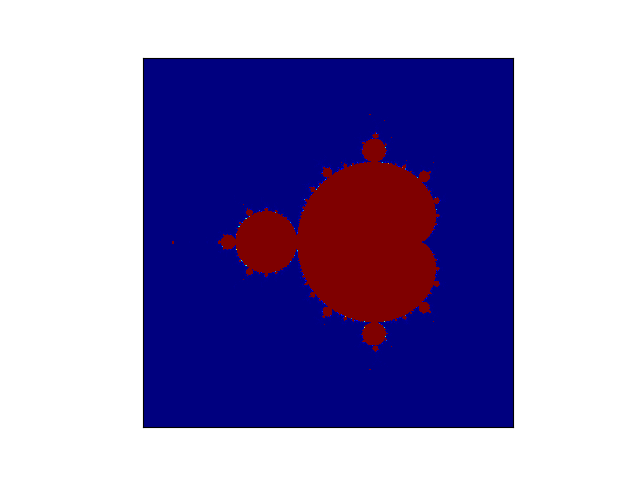
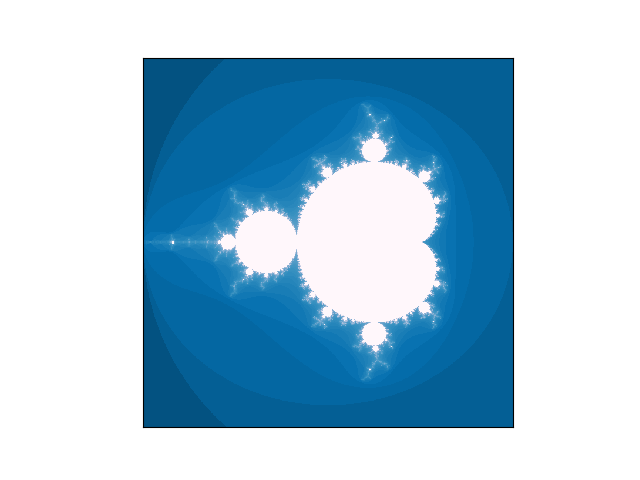
log scale

diff --git a/draw.py b/draw.py
@@ -2,6 +2,7 @@
 # With matplotlib
 import matplotlib.pyplot as plt
 import numpy as np
+import matplotlib.colors as colors
 
 # ----------------------------------------------------
 
@@ -12,11 +13,13 @@ data = np.loadtxt("mand results/"+file+".txt", dtype="int", comments="#", delimi
 # ----------------------------------------------------
 k=len(data)
 
+ax = plt.figure()
+
 plt.xticks(())
 plt.yticks(())
 plt.xlim((-0.5, k-0.5))
 plt.ylim((0, k))
-plt.imshow(data, interpolation='nearest', cmap='jet', origin='lower')
+plt.imshow(data, interpolation='nearest', norm=colors.LogNorm(vmin=1, vmax=k), cmap="PuBu_r", origin='lower')
 #plt.colorbar()
 plt.savefig("mand results/pics/"+file+".png")
 plt.show()
